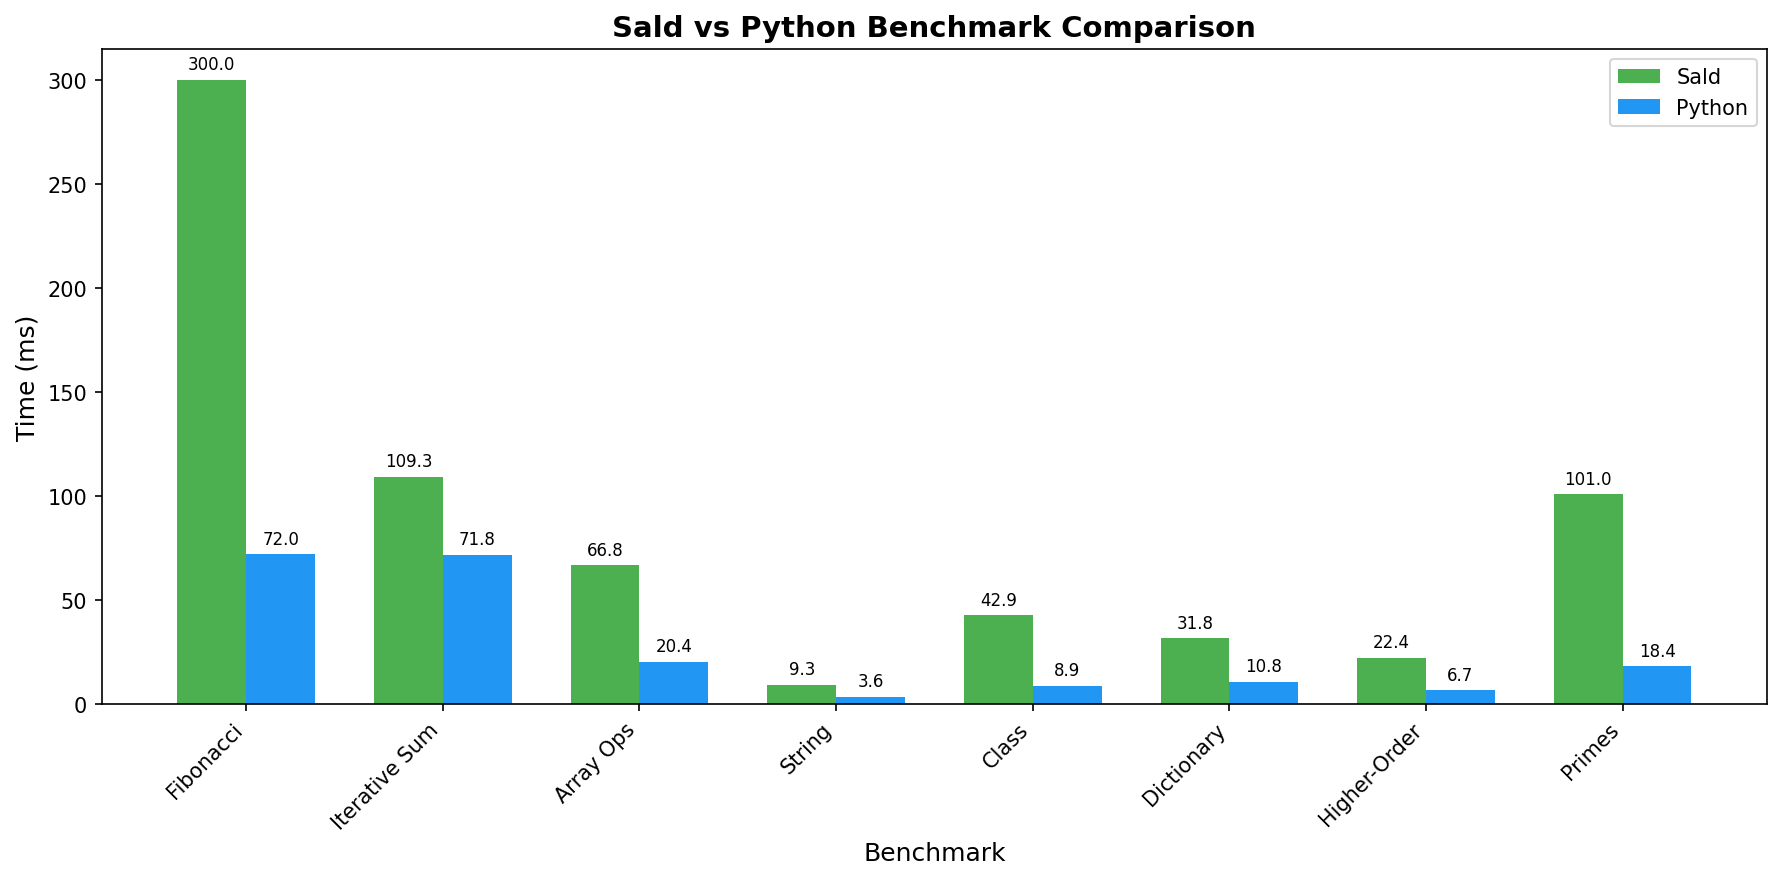
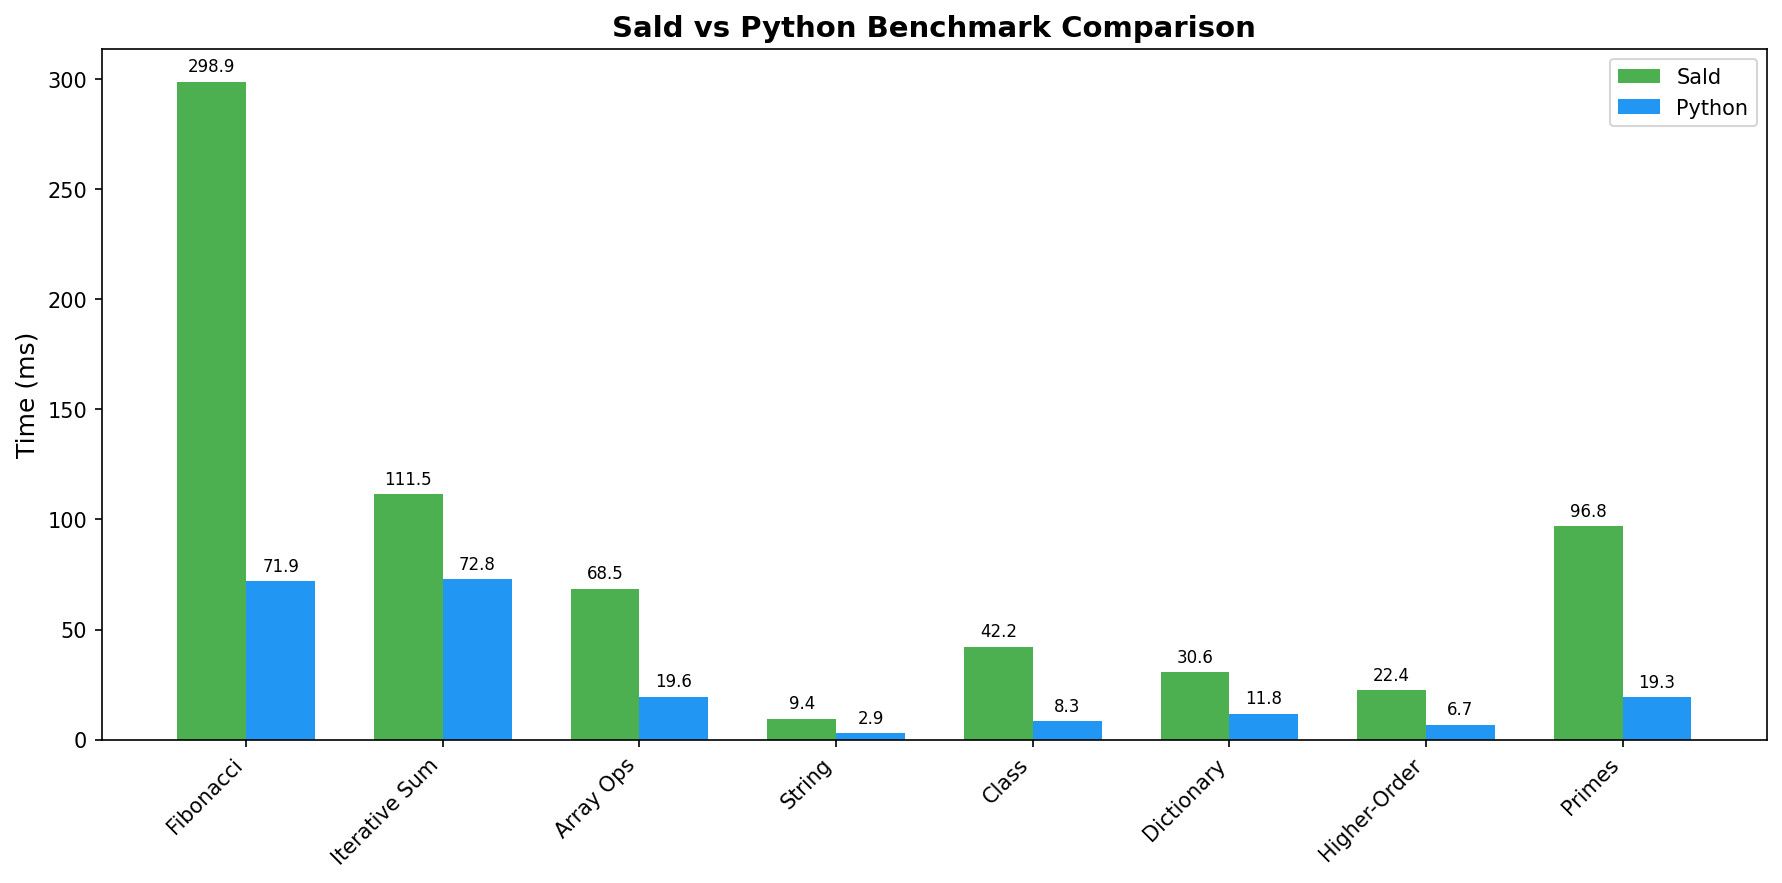
docs: add benchmarks section to README and update benchmark requirements

diff --git a/bench/run_all.py b/bench/run_all.py
@@ -106,7 +106,6 @@ def generate_graph_matplotlib(results, output_path):
     bars2 = ax.bar(x + width/2, python_times, width, label='Python', color='#2196F3')
     
     ax.set_ylabel('Time (ms)', fontsize=12)
-    ax.set_xlabel('Benchmark', fontsize=12)
     ax.set_title('Sald vs Python Benchmark Comparison', fontsize=14, fontweight='bold')
     ax.set_xticks(x)
     ax.set_xticklabels(benchmarks, rotation=45, ha='right')
@@ -130,87 +129,6 @@ def generate_graph_matplotlib(results, output_path):
     plt.savefig(output_path, dpi=150, bbox_inches='tight')
     plt.close()
     
-    return True
-
-def generate_graph_pillow(results, output_path):
-    """Fallback graph using Pillow."""
-    from PIL import Image, ImageDraw, ImageFont
-    
-    width, height = 1200, 600
-    img = Image.new('RGB', (width, height), 'white')
-    draw = ImageDraw.Draw(img)
-    
-    try:
-        font = ImageFont.truetype("arial.ttf", 14)
-        font_small = ImageFont.truetype("arial.ttf", 10)
-        font_title = ImageFont.truetype("arial.ttf", 18)
-    except:
-        font = ImageFont.load_default()
-        font_small = font
-        font_title = font
-    
-    # Title
-    draw.text((width//2, 20), "Sald vs Python Benchmark", fill='black', anchor='mt', font=font_title)
-    
-    benchmarks = list(results["sald"].keys())
-    if not benchmarks:
-        draw.text((width//2, height//2), "No results", fill='red', anchor='mm', font=font)
-        img.save(output_path)
-        return True
-    
-    max_time = max(
-        max(results["sald"].values()) if results["sald"] else 1,
-        max(results["python"].values()) if results["python"] else 1
-    )
-    
-    margin_left = 100
-    margin_right = 50
-    margin_top = 60
-    margin_bottom = 100
-    
-    chart_width = width - margin_left - margin_right
-    chart_height = height - margin_top - margin_bottom
-    
-    bar_width = chart_width // len(benchmarks) // 3
-    
-    for i, bench in enumerate(benchmarks):
-        x_center = margin_left + (i + 0.5) * (chart_width // len(benchmarks))
-        
-        # Sald bar
-        sald_time = results["sald"].get(bench, 0)
-        sald_height = int((sald_time / max_time) * chart_height) if max_time > 0 else 0
-        sald_x = x_center - bar_width - 2
-        draw.rectangle(
-            [sald_x, margin_top + chart_height - sald_height, sald_x + bar_width, margin_top + chart_height],
-            fill='#4CAF50'
-        )
-        draw.text((sald_x + bar_width//2, margin_top + chart_height - sald_height - 5),
-                  f"{sald_time:.0f}", fill='#4CAF50', anchor='mb', font=font_small)
-        
-        # Python bar
-        py_time = results["python"].get(bench, 0)
-        py_height = int((py_time / max_time) * chart_height) if max_time > 0 else 0
-        py_x = x_center + 2
-        draw.rectangle(
-            [py_x, margin_top + chart_height - py_height, py_x + bar_width, margin_top + chart_height],
-            fill='#2196F3'
-        )
-        draw.text((py_x + bar_width//2, margin_top + chart_height - py_height - 5),
-                  f"{py_time:.0f}", fill='#2196F3', anchor='mb', font=font_small)
-        
-        # Label
-        draw.text((x_center, height - margin_bottom + 10), bench, fill='black', anchor='mt', font=font_small)
-    
-    # Legend
-    draw.rectangle([width - 150, 50, width - 130, 70], fill='#4CAF50')
-    draw.text((width - 125, 60), "Sald", fill='black', anchor='lm', font=font_small)
-    draw.rectangle([width - 150, 75, width - 130, 95], fill='#2196F3')
-    draw.text((width - 125, 85), "Python", fill='black', anchor='lm', font=font_small)
-    
-    # Y-axis label
-    draw.text((20, height//2), "Time (ms)", fill='black', anchor='mm', font=font)
-    
-    img.save(output_path)
     return True
 
 def generate_ascii_chart(results):
@@ -258,19 +176,9 @@ def generate_graph(results, output_path):
         print(f"\n✓ Graph saved to: {output_path}")
         return True
     except ImportError:
-        print("\n⚠ matplotlib not found, trying Pillow...")
+        print("\n⚠ matplotlib not found, using ASCII instead...")
     except Exception as e:
-        print(f"\n⚠ matplotlib error: {e}, trying Pillow...")
-    
-    # Try Pillow
-    try:
-        generate_graph_pillow(results, output_path)
-        print(f"\n✓ Graph saved to: {output_path}")
-        return True
-    except ImportError:
-        print("\n⚠ Pillow not found, using ASCII fallback...")
-    except Exception as e:
-        print(f"\n⚠ Pillow error: {e}, using ASCII fallback...")
+        print(f"\n⚠ matplotlib error: {e}, using ASCII instead...")
     
     # ASCII fallback
     generate_ascii_chart(results)

diff --git a/README.md b/README.md
@@ -76,6 +76,16 @@ let g = Greeter("World")
 g.greet()
 ```
 
+## Benchmarks
+
+<p align="center">
+  <img src="bench/benchmark_results.png" alt="Sald vs Python Benchmark" width="700">
+</p>
+
+<p align="center">
+  <em>Sald vs Python performance comparison</em>
+</p>
+
 ## Resources
 
 - [Documentation](https://starssxhfdmh.github.io/sald-docs/) — Complete language reference

diff --git a/bench/README.md b/bench/README.md
@@ -44,6 +44,4 @@ python bench/01_fibonacci.py
 ## Requirements
 
 For graph generation (optional):
-- `matplotlib` (best)
-- `Pillow` (fallback)
-- ASCII output if neither available
+- `matplotlib`
